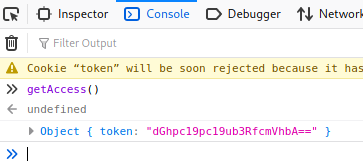
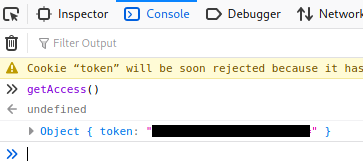
corrections

Changed region(s): [[0.3939, 0.753, 0.8788, 0.8434]]

diff --git a/_posts/2021-04-05-ctf-thm-glitch.md b/_posts/2021-04-05-ctf-thm-glitch.md
@@ -81,8 +81,8 @@ We see a response with a value for a key pair called token. It looks like base64
 
 ```text
 ┌──(root💀kali)-[~/thm/glitch]
-└─# echo "dGhpc19pc19ub3RfcmVhbA==" | base64 -d
-this_is_not_real
+└─# echo "<HIDDEN>==" | base64 -d
+<HIDDEN>
 ```
 
 The clue from above suggests the token and this decoded value belong together. If we switch to the storage tab in the dev console of Firefox we find a cookie called token, so let's set it's value to what we've found:
@@ -187,7 +187,7 @@ And second we can see this is a Node.JS application, as it mentions node_modules
 Layer.handle [as handle_request] (/var/web/node_modules/express/lib/router/layer.js:95:5)
 ```
 
-I don't know about the eval function and if it's exploitable, but a quick search [this](https://medium.com/@sebnemK/node-js-rce-and-a-simple-reverse-shell-ctf-1b2de51c1a44) and [this](https://blog.appsecco.com/nodejs-and-a-simple-rce-exploit-d79001837cc6), both explain how to take advantage of it.
+I don't know about the eval function and if it's exploitable, but a quick search found [this](https://medium.com/@sebnemK/node-js-rce-and-a-simple-reverse-shell-ctf-1b2de51c1a44) and [this](https://blog.appsecco.com/nodejs-and-a-simple-rce-exploit-d79001837cc6), both explain how to take advantage of it.
 
 First I tried the suggested method:
 
@@ -254,7 +254,7 @@ total 48
  4 drwx------   2 user user  4096 Jan 21 08:47 .ssh
  4 -rw-rw-r--   1 user user    22 Jan  4 15:29 user.txt
 user@ubuntu:~$ cat user.txt
-THM{i_don't_know_why}
+THM{<HIDDEN>}
 ```
 
 While we're here, I notice a .firefox folder. This may contain saved passwords for the user, let's have a look at that:
@@ -336,7 +336,7 @@ Move our retrieved files in to the firepwd folder:
 └─# mv logins.json firepwd
 ```
 
-Now we just run the script and it will automatically crack the files and give us an saved credentials:
+Now we just run the script and it will automatically crack the files and give us any saved credentials:
 
 ```text
 ┌──(root💀kali)-[~/thm/glitch/firepwd]
@@ -345,7 +345,7 @@ globalSalt: b'c6b3288fe32e9b2eaab7f9859afd603ee5438c7d'
 <SNIP>
[1 lines of base64/hex data omitted]
 decrypting login/password pairs
-  https://glitch.thm:b'v0id',b'love_the_void'
+  https://glitch.thm:b'v0id',b'<HIDDEN>'
 ```
 
 We have a user and password, and before when looking around I saw there is a user on this server called v0id. We can assume this is our next step, let's try to switch user:
@@ -353,7 +353,7 @@ We have a user and password, and before when looking around I saw there is a use
 ```text
 user@ubuntu:~/.firefox/b5w4643p.default-release$ su v0id
 su v0id
-Password: love_the_void
+Password: <HIDDEN>
 v0id@ubuntu:/home/user/.firefox/b5w4643p.default-release$
 ```
 
@@ -411,7 +411,7 @@ We made it to root, let's grab the flag:
 
 ```text
 root@ubuntu:/var/web# cat /root/root.txt
-THM{diamonds_break_our_aching_minds}
+THM{<HIDDEN>}
 ```
 
 All done. See you next time.
